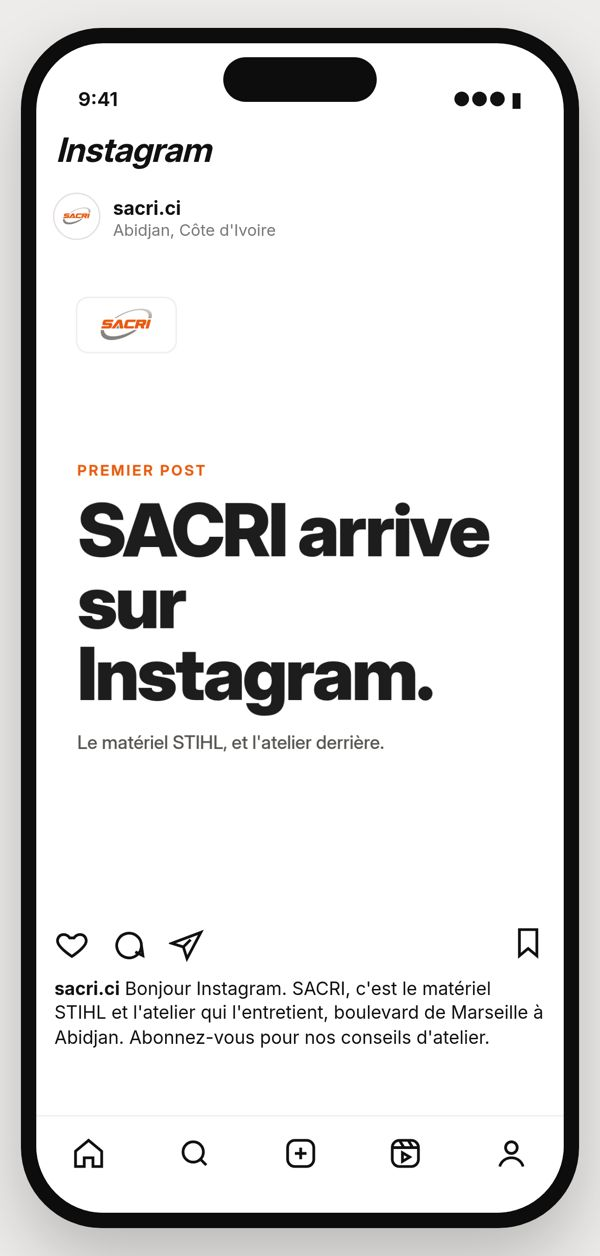
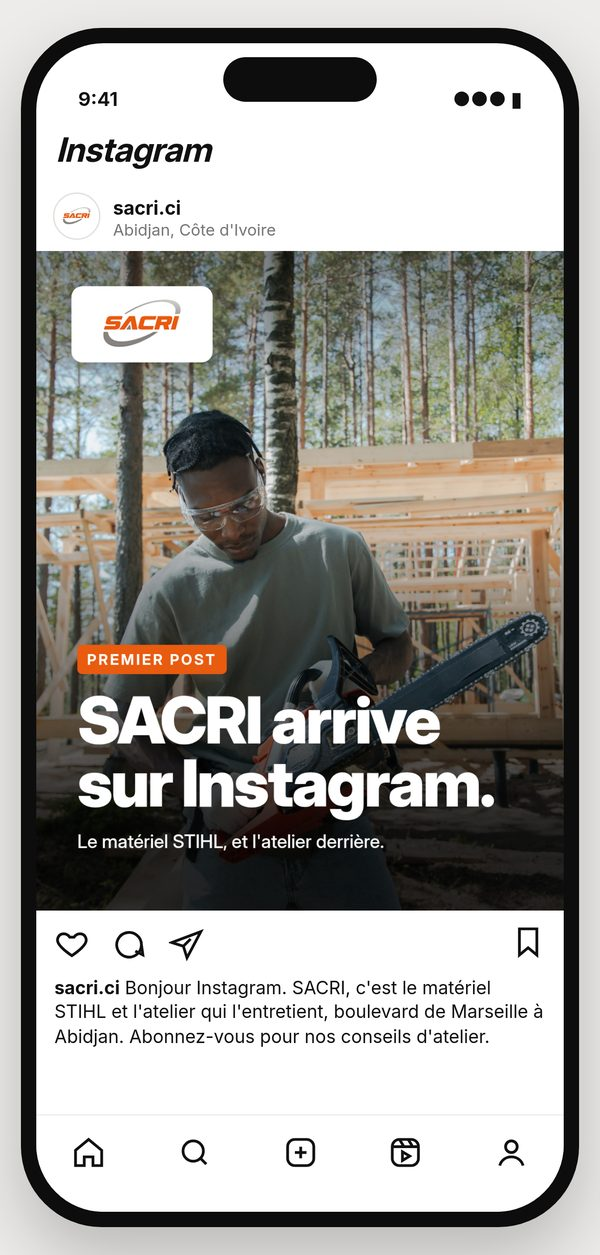
Site proposé

diff --git a/index.html b/index.html
@@ -76,11 +76,11 @@ footer{padding:30px 0;font-size:13px;color:#878480}
 <header class="top"><div class="wrap"><img src="img/logo-sacri.png" alt="SACRI"><b>Audit des réseaux sociaux</b>
 <nav><a href="#etat">État des lieux</a><a href="#reels">Publications</a><a href="#bench">Comparables</a><a href="#marche">Ce qui marche</a><a href="#avap">Avant, après</a><a href="#cal">Lancement</a></nav></div></header>
 <div class="hero"><div class="wrap"><div class="k" style="color:#fff;opacity:.85">Relevé du 19 novembre 2026</div>
-<h1>Une vraie audience sur Facebook, des vidéos qui marchent quand on voit des gens au travail.</h1>
-<p>SACRI parle à près de 30 000 abonnés sur Facebook et 849 sur LinkedIn. Les vidéos de terrain font jusqu'à 3 400 vues ; les gros plans produit plafonnent sous 900. Il manque Instagram, WhatsApp et une raison de passer à l'acte.</p>
+<h1>Une page Facebook de 29 634 abonnés presque silencieuse, aucun autre canal grand public.</h1>
+<p>Près de 30 000 personnes suivent SACRI sur Facebook, mais la page publie 2 à 3 Reels par mois et n'affiche aucun avis client. Pas d'Instagram, pas de WhatsApp ; LinkedIn (849 abonnés) ne parle qu'aux entreprises. Quand la page montre des gens au travail, les vidéos font jusqu'à 3 400 vues : l'audience est là, il faut lui parler.</p>
 <div class="kpis"><div class="kpi"><b>29 634</b><span>abonnés Facebook (16/11)</span></div><div class="kpi"><b>849</b><span>abonnés LinkedIn (19/11)</span></div><div class="kpi"><b>3 800</b><span>vues, meilleur Reel récent</span></div><div class="kpi"><b>0</b><span>avis client sur Facebook</span></div></div></div></div>
-<section id="etat"><div class="wrap"><div class="k">01 État des lieux</div><h2>Deux comptes actifs, quatre canaux absents</h2>
-<p class="lead">Chaque chiffre vient de la page publique du compte, consultée sans connexion. Ce qui n'était pas visible est marqué comme tel.</p>
+<section id="etat"><div class="wrap"><div class="k">01 État des lieux</div><h2>Une page Facebook presque silencieuse, aucun autre canal grand public</h2>
+<p class="lead">LinkedIn est actif mais ne touche que les clients entreprises ; Instagram, TikTok, YouTube et WhatsApp sont absents. Chaque chiffre vient de la page publique du compte, consultée sans connexion. Ce qui n'était pas visible est marqué comme tel.</p>
 <table><tr><th>Réseau</th><th>Abonnés</th><th>Rythme</th><th>Formats</th><th>Engagement</th></tr><tr><td><b>Facebook</b><br><a href="https://www.facebook.com/sacriofficiel" target="_blank" rel="noopener">facebook.com/sacriofficiel</a></td><td class="">29 634 abonnés (16/11/2026) ; 29 K affichés le 19/11/2026</td><td>10 Reels du 27/07 au 19/11/2026, soit 2 à 3 par mois</td><td>Reels courts : produit en gros plan, terrain, événements</td><td>87 à 3 800 vues par Reel ; 9 à 135 réactions ; 0 avis client</td></tr><tr><td><b>LinkedIn</b><br><a href="https://www.linkedin.com/company/sacri-c%C3%B4te-d-ivoire/" target="_blank" rel="noopener">SACRI CÔTE D&#x27;IVOIRE</a></td><td class="">849 abonnés (fiche publique, 19/11/2026)</td><td>1 à 3 publications par semaine</td><td>Photos produit, vœux, partenariats, vie de l&#x27;entreprise</td><td>2 à 8 réactions par fiche produit ; 29 pour la distinction (29/10)</td></tr><tr><td><b>Instagram</b><br><span class="tag g">aucun compte au nom de SACRI</span></td><td class="no">aucun compte trouvé</td><td>-</td><td>-</td><td>-</td></tr><tr><td><b>TikTok</b><br><span class="tag g">aucun compte au nom de SACRI</span></td><td class="no">aucun compte trouvé</td><td>-</td><td>-</td><td>-</td></tr><tr><td><b>YouTube</b><br><span class="tag g">aucune chaîne au nom de SACRI</span></td><td class="no">aucune chaîne trouvée</td><td>-</td><td>-</td><td>-</td></tr><tr><td><b>WhatsApp Business</b><br><span class="tag g">aucun numéro affiché</span></td><td class="no">aucun bouton sur la page Facebook ni sur le site</td><td>-</td><td>-</td><td>-</td></tr></table>
 <p class="src">Sources : facebook.com/sacriofficiel (en-tête et onglet Reels, 16 et 19/11/2026) ; linkedin.com/company/sacri-côte-d-ivoire (fiche publique, 19/11/2026, et publications relevées le 16/11/2026). Instagram, TikTok, YouTube : recherche du nom SACRI et de ses variantes les 16 et 19/11/2026, aucun compte trouvé.</p></div></section>
 <section id="reels"><div class="wrap"><div class="k">02 Les publications de SACRI</div><h2>Les 10 derniers Reels Facebook, classés par vues</h2>
@@ -108,11 +108,11 @@ footer{padding:30px 0;font-size:13px;color:#878480}
 <div class="who"><img src="img/logo-sacri.png" alt=""><div><b>SACRI</b><span>29 K abonnés</span></div></div>
 <div class="cap">Une distinction, une fierté collective. Notre Directeur Général, Monsieur Nabil Ajami, est élevé au grade d&#x27;Officier de l&#x27;Ordre du Mérite agricole de Côte d&#x27;Ivoire. Merci à nos équipes et à nos clients.</div><img class="pimg" src="img/apres-3-distinction.jpg" alt=""><div class="acts">J'aime&nbsp;&nbsp;Commenter&nbsp;&nbsp;Partager</div></div></div></div></div></div></section>
 <section id="cal"><div class="wrap"><div class="k">06 Lancement, les 30 premiers jours</div><h2>Un compte Instagram qui démarre, une page Facebook qui se réveille</h2>
-<p class="lead">SACRI n'a pas de présence active : pas de compte Instagram, et une page Facebook de 29 634 abonnés (16/11/2026) presque silencieuse. Le plan ne retouche pas l'existant, il lance : premier post Instagram le 8 décembre, message de reprise sur Facebook le même jour, puis trois rendez-vous par semaine.</p>
+<p class="lead">Point de départ : une page Facebook de 29 634 abonnés (16/11/2026) presque silencieuse, aucun autre canal grand public (pas de compte Instagram, pas de WhatsApp). Le plan ne retouche pas l'existant, il lance : premier post Instagram le 8 décembre, message de reprise sur Facebook le même jour, puis trois rendez-vous par semaine.</p>
 <div class="sw"><input type="radio" name="v" id="va" checked><label for="va">Proposition A, sobre</label><input type="radio" name="v" id="vb"><label for="vb">Proposition B, plus colorée</label>
 <div class="gr"><div><img class="tel va" src="img/v2/A-grille.jpg" alt="Grille du profil, proposition A"><img class="tel vb" src="img/v2/B-grille.jpg" alt="Grille du profil, proposition B"></div>
 <div class="gtx"><h3>La grille du profil sacri.ci</h3><p>Colonne de gauche : photos de terrain plein cadre. Au milieu : le produit en situation et les carrousels. À droite : un chiffre ou un titre, en blanc (A) ou en orange (B).</p><p>Une idée par post, six mots au plus en titre. Le logo n'apparaît que sur le premier post, la fin des carrousels et la relance Facebook.</p><p class="src">Références : <a href="https://www.instagram.com/stihl/" target="_blank" rel="noopener">STIHL</a> ; <a href="https://www.instagram.com/milwaukeetool/" target="_blank" rel="noopener">Milwaukee Tool</a> ; <a href="https://www.instagram.com/hilti/" target="_blank" rel="noopener">Hilti</a> ; <a href="https://www.instagram.com/husqvarnaworldwide/" target="_blank" rel="noopener">Husqvarna</a>.</p></div></div>
-<div class="cal"><div class="day"><div class="d"><b>08/12</b><span>Mardi, Facebook, post</span></div><img class="tel va" src="img/v2/A-facebook-relance.jpg" alt=""><img class="tel vb" src="img/v2/B-facebook-relance.jpg" alt=""><p class="lg">On reprend la parole. Chaque semaine sur cette page : conseils d&#x27;atelier, chantiers de nos clients, nouveautés STIHL. Une question ? Écrivez-nous en message privé.</p></div><div class="day"><div class="d"><b>08/12</b><span>Mardi, Instagram, post</span></div><img class="tel va" src="img/v2/A-01-premier-post.jpg" alt=""><img class="tel vb" src="img/v2/B-01-premier-post.jpg" alt=""><p class="lg">Bonjour Instagram. SACRI, c&#x27;est le matériel STIHL et l&#x27;atelier qui l&#x27;entretient, boulevard de Marseille à Abidjan. Abonnez-vous pour nos conseils d&#x27;atelier.</p></div><div class="day"><div class="d"><b>10/12</b><span>Jeudi, Instagram, post</span></div><img class="tel va" src="img/v2/A-02-tronconneuses.jpg" alt=""><img class="tel vb" src="img/v2/B-02-tronconneuses.jpg" alt=""><p class="lg">Tronçonneuses STIHL pour la coupe forestière et l&#x27;entretien des plantations. Pièces d&#x27;origine et service après-vente chez SACRI.</p></div><div class="day"><div class="d"><b>12/12</b><span>Samedi, Instagram, story</span></div><img class="tel va" src="img/v2/A-story-sondage.jpg" alt=""><img class="tel vb" src="img/v2/B-story-sondage.jpg" alt=""><p class="lg">Sondage : votre machine a-t-elle été révisée cette année ?</p></div><div class="day"><div class="d"><b>14/12</b><span>Lundi, Instagram + Facebook, post</span></div><img class="tel va" src="img/v2/A-03-espaces-verts.jpg" alt=""><img class="tel vb" src="img/v2/B-03-espaces-verts.jpg" alt=""><p class="lg">Pelouses, talus, allées : des débroussailleuses STIHL faites pour tenir la saison. Conseil et essai au comptoir SACRI.</p></div><div class="day"><div class="d"><b>16/12</b><span>Mercredi, Instagram + Facebook, post</span></div><img class="tel va" src="img/v2/A-04-chiffre-38.jpg" alt=""><img class="tel vb" src="img/v2/B-04-chiffre-38.jpg" alt=""><p class="lg">38 mécaniciens certifiés STIHL dans notre réseau, formés par la SACRI Academy. Votre machine entre de bonnes mains.</p></div><div class="day"><div class="d"><b>18/12</b><span>Vendredi, Instagram + Facebook, post</span></div><img class="tel va" src="img/v2/A-05-gamme.jpg" alt=""><img class="tel vb" src="img/v2/B-05-gamme.jpg" alt=""><p class="lg">Tronçonneuses, débroussailleuses, atomiseurs, souffleurs : toute la gamme STIHL, un seul comptoir.</p></div><div class="day"><div class="d"><b>21/12</b><span>Lundi, Instagram + Facebook, reel</span></div><img class="tel va" src="img/v2/A-06-reel-revision.jpg" alt=""><img class="tel vb" src="img/v2/B-06-reel-revision.jpg" alt=""><p class="lg">Une révision de A à Z en 60 secondes : chaîne, filtre, bougie. Tournage à prévoir dans l&#x27;atelier SACRI.</p></div><div class="day"><div class="d"><b>23/12</b><span>Mercredi, Instagram, story</span></div><img class="tel va" src="img/v2/A-story-question.jpg" alt=""><img class="tel vb" src="img/v2/B-story-question.jpg" alt=""><p class="lg">Boîte à questions : une panne, un bruit, un doute ? L&#x27;atelier répond en story.</p></div><div class="day"><div class="d"><b>28/12</b><span>Lundi, Instagram + Facebook, carrousel</span></div><img class="tel va" src="img/v2/A-07-carrousel-3-erreurs.jpg" alt=""><img class="tel vb" src="img/v2/B-07-carrousel-3-erreurs.jpg" alt=""><p class="lg">3 erreurs qui usent votre machine, et comment les éviter. Enregistrez ce post pour la prochaine saison.</p></div><div class="day"><div class="d"><b>30/12</b><span>Mercredi, Instagram + Facebook, carrousel</span></div><img class="tel va" src="img/v2/A-08-carrousel-avant-apres.jpg" alt=""><img class="tel vb" src="img/v2/B-08-carrousel-avant-apres.jpg" alt=""><p class="lg">Avant, après une révision : la différence se voit au premier démarrage. Atelier SACRI, 27 21 25 48 48.</p></div><div class="day"><div class="d"><b>04/01</b><span>Lundi, Instagram + Facebook, post</span></div><img class="tel va" src="img/v2/A-09-temoignage.jpg" alt=""><img class="tel vb" src="img/v2/B-09-temoignage.jpg" alt=""><p class="lg">La parole à ceux qui travaillent avec nos machines. Votre matériel a une histoire ? Racontez-la en commentaire.</p></div></div>
+<div class="cal"><div class="day"><div class="d"><b>08/12</b><span>Mardi, Facebook, post</span></div><img class="tel va" src="img/v2/A-facebook-relance.jpg" alt=""><img class="tel vb" src="img/v2/B-facebook-relance.jpg" alt=""><p class="lg">On reprend la parole. Chaque semaine sur cette page : conseils d&#x27;atelier, chantiers de nos clients, nouveautés STIHL. Une question ? Écrivez-nous en message privé.</p></div><div class="day"><div class="d"><b>08/12</b><span>Mardi, Instagram, post</span></div><img class="tel va" src="img/v2/A-01-premier-post.jpg" alt=""><img class="tel vb" src="img/v2/B-01-premier-post.jpg" alt=""><p class="lg">Bonjour Instagram. SACRI, c&#x27;est le matériel STIHL et l&#x27;atelier qui l&#x27;entretient, boulevard de Marseille à Abidjan. Abonnez-vous pour nos conseils d&#x27;atelier.</p></div><div class="day"><div class="d"><b>10/12</b><span>Jeudi, Instagram, post</span></div><img class="tel va" src="img/v2/A-02-tronconneuses.jpg" alt=""><img class="tel vb" src="img/v2/B-02-tronconneuses.jpg" alt=""><p class="lg">Tronçonneuses STIHL pour la coupe forestière et l&#x27;entretien des plantations. Pièces d&#x27;origine et service après-vente chez SACRI.</p></div><div class="day"><div class="d"><b>12/12</b><span>Samedi, Instagram, story</span></div><img class="tel va" src="img/v2/A-story-sondage.jpg" alt=""><img class="tel vb" src="img/v2/B-story-sondage.jpg" alt=""><p class="lg">Sondage : votre machine a-t-elle été révisée cette année ?</p></div><div class="day"><div class="d"><b>14/12</b><span>Lundi, Instagram + Facebook, post</span></div><img class="tel va" src="img/v2/A-03-espaces-verts.jpg" alt=""><img class="tel vb" src="img/v2/B-03-espaces-verts.jpg" alt=""><p class="lg">Pelouses, talus, allées : des débroussailleuses STIHL faites pour tenir la saison. Conseil et essai au comptoir SACRI.</p></div><div class="day"><div class="d"><b>16/12</b><span>Mercredi, Instagram + Facebook, post</span></div><img class="tel va" src="img/v2/A-04-depuis-1985.jpg" alt=""><img class="tel vb" src="img/v2/B-04-depuis-1985.jpg" alt=""><p class="lg">Depuis 1985, SACRI est le représentant exclusif de STIHL en Côte d&#x27;Ivoire. Matériel, pièces d&#x27;origine et atelier : votre machine entre de bonnes mains.</p></div><div class="day"><div class="d"><b>18/12</b><span>Vendredi, Instagram + Facebook, post</span></div><img class="tel va" src="img/v2/A-05-gamme.jpg" alt=""><img class="tel vb" src="img/v2/B-05-gamme.jpg" alt=""><p class="lg">Tronçonneuses, débroussailleuses, atomiseurs, souffleurs : toute la gamme STIHL, un seul comptoir.</p></div><div class="day"><div class="d"><b>21/12</b><span>Lundi, Instagram + Facebook, reel</span></div><img class="tel va" src="img/v2/A-06-reel-revision.jpg" alt=""><img class="tel vb" src="img/v2/B-06-reel-revision.jpg" alt=""><p class="lg">Une révision de A à Z en 60 secondes : chaîne, filtre, bougie. Tournage à prévoir dans l&#x27;atelier SACRI.</p></div><div class="day"><div class="d"><b>23/12</b><span>Mercredi, Instagram, story</span></div><img class="tel va" src="img/v2/A-story-question.jpg" alt=""><img class="tel vb" src="img/v2/B-story-question.jpg" alt=""><p class="lg">Boîte à questions : une panne, un bruit, un doute ? L&#x27;atelier répond en story.</p></div><div class="day"><div class="d"><b>28/12</b><span>Lundi, Instagram + Facebook, carrousel</span></div><img class="tel va" src="img/v2/A-07-carrousel-3-erreurs.jpg" alt=""><img class="tel vb" src="img/v2/B-07-carrousel-3-erreurs.jpg" alt=""><p class="lg">3 erreurs qui usent votre machine, et comment les éviter. Enregistrez ce post pour la prochaine saison.</p></div><div class="day"><div class="d"><b>30/12</b><span>Mercredi, Instagram + Facebook, carrousel</span></div><img class="tel va" src="img/v2/A-08-carrousel-avant-apres.jpg" alt=""><img class="tel vb" src="img/v2/B-08-carrousel-avant-apres.jpg" alt=""><p class="lg">Avant, après une révision : la différence se voit au premier démarrage. Atelier SACRI, 27 21 25 48 48.</p></div><div class="day"><div class="d"><b>04/01</b><span>Lundi, Instagram + Facebook, post</span></div><img class="tel va" src="img/v2/A-09-temoignage.jpg" alt=""><img class="tel vb" src="img/v2/B-09-temoignage.jpg" alt=""><p class="lg">La parole à ceux qui travaillent avec nos machines. Votre matériel a une histoire ? Racontez-la en commentaire.</p></div></div>
 <div class="note">Rien n'est publié sans l'accord de SACRI. À valider : le choix A ou B, la création du compte sacri.ci avant le 8/12, le tournage du Reel dans l'atelier, et un vrai témoignage client (celui du 4/1 est fictif et marqué comme tel).</div>
 <p class="src">Photos : <a href="https://www.pexels.com/photo/a-man-holding-a-chainsaw-8820993/" target="_blank" rel="noopener">Homme tenant une tronçonneuse, Ron Lach</a> ; <a href="https://www.pexels.com/photo/man-trimming-the-grass-using-a-grass-cutter-4920293/" target="_blank" rel="noopener">Débroussailleuse dans un jardin, Gustavo Fring</a> ; <a href="https://www.pexels.com/photo/a-young-man-is-working-on-a-car-engine-28153670/" target="_blank" rel="noopener">Mécanicien à l&#x27;atelier, dionisio castigotivane</a> ; <a href="https://www.pexels.com/photo/close-up-of-mechanic-repairing-carburetor-36582325/" target="_blank" rel="noopener">Réglage d&#x27;un carburateur, Devesh Chander</a> ; <a href="https://www.pexels.com/photo/man-cutting-wood-with-chainsaw-outdoors-33946652/" target="_blank" rel="noopener">Coupe de bois à la tronçonneuse, Usman AbdulrasheedGambo</a> ; <a href="https://www.pexels.com/photo/ghanaian-farmer-spraying-crops-in-field-36667248/" target="_blank" rel="noopener">Pulvérisation dans un champ, Ghana, RoyalArk Pictures</a> ; <a href="https://www.pexels.com/photo/back-view-of-man-weed-whacking-16215514/" target="_blank" rel="noopener">Débroussaillage, Rodolfo Gaion</a> ; <a href="https://www.pexels.com/photo/a-man-holding-chainsaw-8821018/" target="_blank" rel="noopener">Tronçonneuse en forêt, Ron Lach</a> ; <a href="https://www.pexels.com/photo/person-using-chainsaw-4206115/" target="_blank" rel="noopener">Tronçonneuse sur des bûches, kaboompics</a> ; <a href="https://www.pexels.com/photo/man-starting-a-chain-saw-on-a-construction-site-8820163/" target="_blank" rel="noopener">Démarrage d&#x27;une tronçonneuse, Ron Lach</a> ; <a href="https://www.pexels.com/photo/a-man-holding-a-chainsaw-8821541/" target="_blank" rel="noopener">Tronçonneuse en forêt, en marche, Ron Lach</a> ; <a href="https://www.sacri-ci.com" target="_blank" rel="noopener">Gamme STIHL (tronçonneuse, atelier), SACRI</a>. Photos de terrain libres de droits (licence Pexels) ; aucune personne de SACRI n'apparaît.</p></div></div></section>
 
